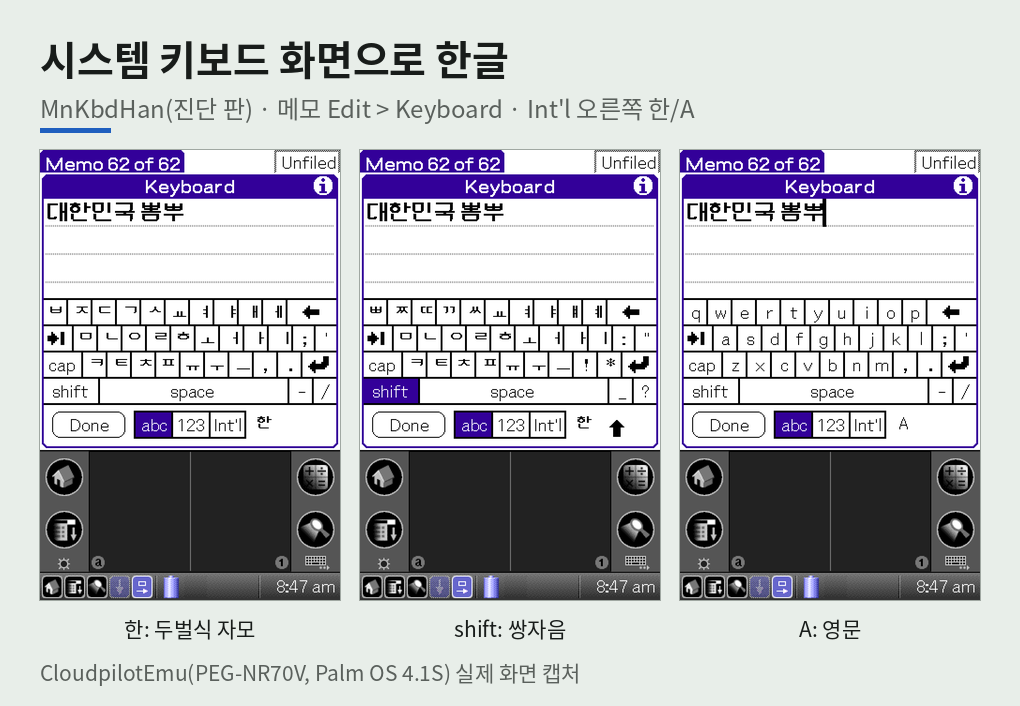
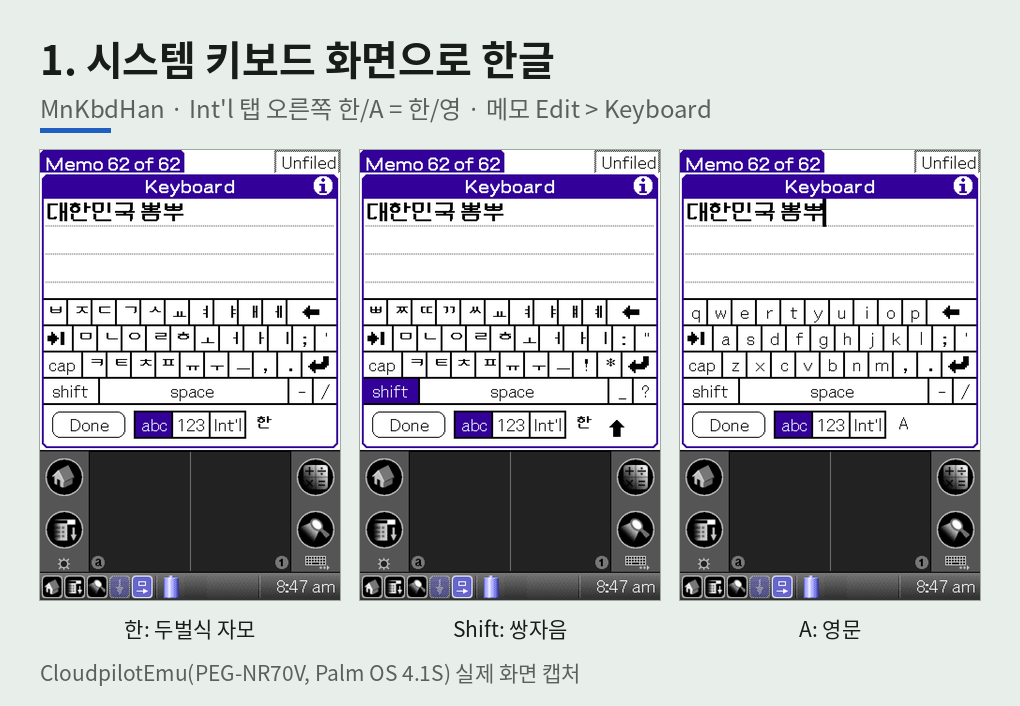
README figures: same wording for the Han/Eng switch on all three keyboards
Claude-Session: https://claude.ai/code/session_0111EUgHmukks2KoNHTb7Lqc

Changed region(s): [[0.0304, 0.0623, 0.699, 0.187], [0.4255, 0.8725, 0.5471, 0.9037]]

diff --git a/tools/gen-readme-captures.py b/tools/gen-readme-captures.py
@@ -26,15 +26,15 @@ SUB = (90, 96, 92)
 SW = 300   # 캡처 한 장 폭(원본 640의 약 절반 — 고해상도 점이 거의 그대로)
 GAP = 20
 
-FIGS = {
-    'mn-keyboard.png': ('Mn 가상 키보드', 'MnSkPlugin + MnSkCore · 가상 실크스크린 자리에 단모음 자판',
-                        [('mn_han', '한글 단모음'), ('mn_shift', 'Shift: 쌍자음'),
-                         ('mn_eng', '영문'), ('mn_num', '숫자·기호')]),
-    'sony-keyboard.png': ('Sony 가상 키보드로 한글', 'MnSonyKbd · 리셋 없음 · sym 오른쪽 한/A = 한/영',
+FIGS = {   # 세 키보드 같은 말: 부제 = "모듈 · 한/A 단추 자리 = 한/영", 칸 = "한: …", "Shift: 쌍자음", "A: 영문"
+    'system-keyboard.png': ('1. 시스템 키보드 화면으로 한글', 'MnKbdHan · Int\'l 탭 오른쪽 한/A = 한/영 · 메모 Edit > Keyboard',
+                            [('kh_han', '한: 두벌식 자모'), ('kh_shift', 'Shift: 쌍자음'), ('kh_eng', 'A: 영문')]),
+    'mn-keyboard.png': ('2. Mn 가상 키보드', 'MnSkPlugin + MnSkCore · 왼쪽 아래 한/A 키 = 한/영',
+                        [('mn_han', '한: 단모음 자모'), ('mn_shift', 'Shift: 쌍자음'),
+                         ('mn_eng', 'A: 영문'), ('mn_num', '123: 숫자·기호')]),
+    'sony-keyboard.png': ('3. Sony 가상 키보드로 한글', 'MnSonyKbd · sym 탭 오른쪽 한/A = 한/영',
                           [('sony_han', '한: 두벌식 자모'), ('sony_shift', 'Shift: 쌍자음'),
-                           ('sony_eng', 'A: 영문'), ('sony_sym', 'sym 자판(그대로)')]),
-    'system-keyboard.png': ('시스템 키보드 화면으로 한글', 'MnKbdHan(진단 판) · 메모 Edit > Keyboard · Int\'l 오른쪽 한/A',
-                            [('kh_han', '한: 두벌식 자모'), ('kh_shift', 'shift: 쌍자음'), ('kh_eng', 'A: 영문')]),
+                           ('sony_eng', 'A: 영문'), ('sony_sym', 'sym: 기호(그대로)')]),
     'mnhangul.png': ('CJKOS 없이 한글 표시', 'MnHangul · 조합형 글꼴(24×24) · 2바이트 글자 경계·줄바꿈',
                      [('hg_memo', '메모장(24×24 글꼴)')]),
 }

diff --git a/README.md b/README.md
@@ -70,15 +70,15 @@ Sony CLIÉ PEG-NR70V(Palm OS 4.1S)에서 한글을 쓰기 위한 모듈 모음. 
 
 ### 1. 화면 안 키보드 — MnKbdHan (진단 판)
 
-<img src="docs/images/system-keyboard.png" width="760" alt="시스템 키보드 화면에서 두벌식 한글(MnKbdHan): 한, shift 쌍자음, 영문">
+<img src="docs/images/system-keyboard.png" width="760" alt="시스템 키보드 화면(MnKbdHan): 한 두벌식 자모, Shift 쌍자음, A 영문 — Int'l 탭 오른쪽 한/A">
 
 ### 2. 화면 밖 실크스크린에 자체 키보드 — Mn 가상 키보드
 
-<img src="docs/images/mn-keyboard.png" width="760" alt="Mn 가상 키보드: 한글 단모음, Shift 쌍자음, 영문, 숫자·기호">
+<img src="docs/images/mn-keyboard.png" width="760" alt="Mn 가상 키보드: 한 단모음 자모, Shift 쌍자음, A 영문, 123 숫자·기호 — 왼쪽 아래 한/A 키">
 
 ### 3. 화면 밖 Sony 키보드를 한글 자판으로 — MnSonyKbd
 
-<img src="docs/images/sony-keyboard.png" width="760" alt="Sony 가상 키보드로 한글(MnSonyKbd): 한, Shift 쌍자음, A 영문, sym 자판">
+<img src="docs/images/sony-keyboard.png" width="760" alt="Sony 가상 키보드(MnSonyKbd): 한 두벌식 자모, Shift 쌍자음, A 영문, sym 기호 — sym 탭 오른쪽 한/A">
 
 ### 한글 표시 — MnHangul (입력 방법과 별개)
 
